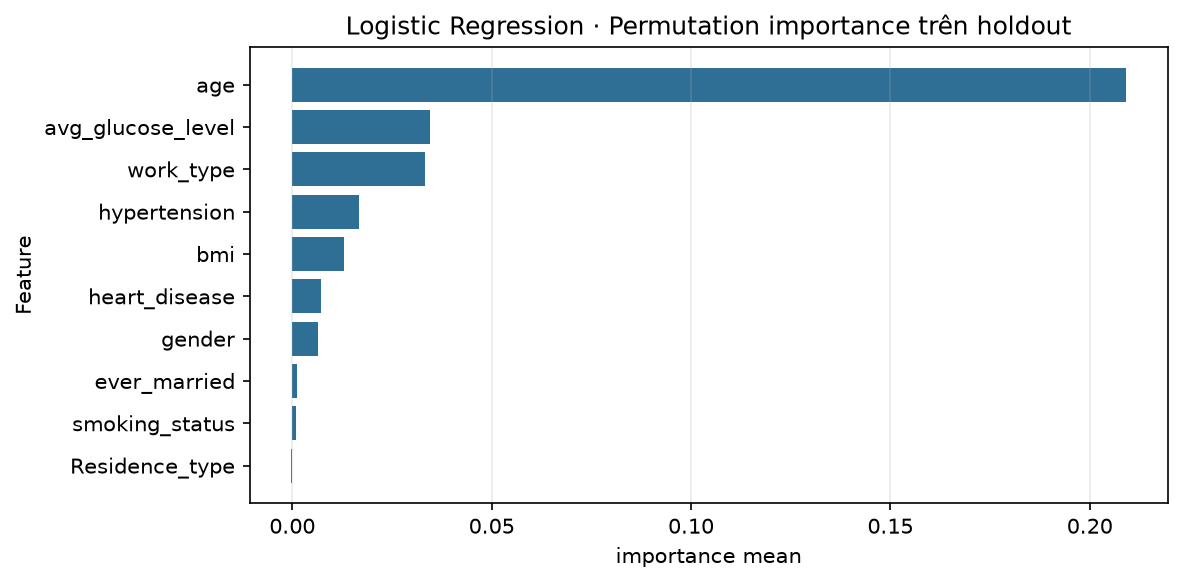
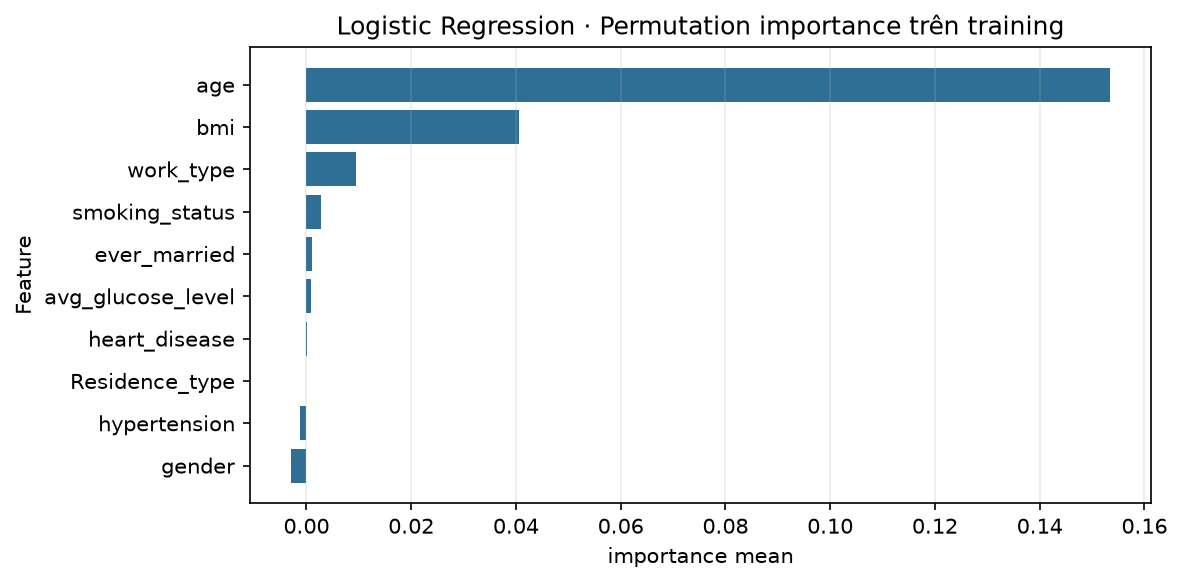
Rebuild final logistic regression artifacts

diff --git a/scripts/evaluate_final_model.py b/scripts/evaluate_final_model.py
@@ -35,6 +35,22 @@ MODEL_PATH = ROOT / "models" / "stroke_pipeline.pkl"
 
 def main() -> int:
     RESULTS_DIR.mkdir(exist_ok=True)
+    # Validate the training-only selection record before doing any work with holdout.
+    cv_results_path = RESULTS_DIR / "cv_results.csv"
+    if not cv_results_path.is_file():
+        raise FileNotFoundError(f"CV results are required before final evaluation: {cv_results_path}")
+    cv_results = pd.read_csv(cv_results_path)
+    required_cv_columns = {"model", "average_precision_mean"}
+    missing_cv_columns = required_cv_columns.difference(cv_results.columns)
+    if missing_cv_columns:
+        raise ValueError(f"CV results missing columns: {', '.join(sorted(missing_cv_columns))}")
+    lr_rows = cv_results.loc[
+        cv_results["model"].eq("Logistic Regression"), "average_precision_mean"
+    ]
+    if len(lr_rows) != 1 or not np.isfinite(float(lr_rows.iloc[0])):
+        raise ValueError("CV results must contain exactly one finite Logistic Regression AP score.")
+    lr_cv_ap = float(lr_rows.iloc[0])
+
     df = load_data()
     X_train, X_test, y_train, y_test = split_data(df)
     cv = StratifiedKFold(n_splits=5, shuffle=True, random_state=RANDOM_STATE)
@@ -122,8 +138,8 @@ def main() -> int:
 
     permutation = compute_permutation_importance(
         selected,
-        X_test,
-        y_test,
+        X_train,
+        y_train,
         scoring="average_precision",
         n_repeats=10,
         random_state=RANDOM_STATE,
@@ -132,16 +148,10 @@ def main() -> int:
     plot_feature_importance(
         permutation,
         value_column="importance_mean",
-        title="Logistic Regression · Permutation importance trên holdout",
+        title="Logistic Regression · Permutation importance trên training",
         save_as="permutation_importance.png",
     ).clear()
 
-    cv_results = pd.read_csv(RESULTS_DIR / "cv_results.csv")
-    lr_cv_ap = float(
-        cv_results.loc[
-            cv_results["model"].eq("Logistic Regression"), "average_precision_mean"
-        ].iloc[0]
-    )
     metadata = {
         "model": "Logistic Regression",
         "selection_metric": "average_precision_cv",
@@ -150,6 +160,7 @@ def main() -> int:
         "threshold": threshold,
         "random_state": RANDOM_STATE,
         "test_set_used_for_model_or_threshold_selection": False,
+        "test_set_used_for_feature_importance": False,
     }
     (RESULTS_DIR / "final_model_metadata.json").write_text(
         json.dumps(metadata, ensure_ascii=False, indent=2), encoding="utf-8"

diff --git a/src/evaluation.py b/src/evaluation.py
@@ -27,11 +27,12 @@ RESULTS_DIR = Path(__file__).resolve().parent.parent / "results"
 def compute_metrics(y_true, y_pred, y_proba) -> dict:
     """Tính 5 chỉ số chính. KHÔNG gồm accuracy (không đáng tin với dữ liệu mất cân bằng)."""
     return {
-        "recall": recall_score(y_true, y_pred),
+        "recall": recall_score(y_true, y_pred, zero_division=0),
         "precision": precision_score(y_true, y_pred, zero_division=0),
-        "f1": f1_score(y_true, y_pred),
+        "f1": f1_score(y_true, y_pred, zero_division=0),
         "roc_auc": roc_auc_score(y_true, y_proba),
-        "pr_auc": average_precision_score(y_true, y_proba),
+        # This is Average Precision (AP), not trapezoidal area under the PR curve.
+        "average_precision": average_precision_score(y_true, y_proba),
     }
 
 

diff --git a/src/tuning.py b/src/tuning.py
@@ -10,12 +10,13 @@ def get_tuning_models(random_state: int = 42) -> dict:
     return {
         "Random Forest": RandomForestClassifier(
             random_state=random_state,
-            n_jobs=-1
+            # RandomizedSearchCV parallelizes candidates; keep each estimator single-threaded.
+            n_jobs=1
         ),
         "XGBoost": XGBClassifier(
             eval_metric="logloss",
             random_state=random_state,
-            n_jobs=-1
+            n_jobs=1
         ),
     }
 

diff --git a/src/models.py b/src/models.py
@@ -29,7 +29,8 @@ def get_models(random_state: int = 42) -> dict:
 
         "Random Forest": RandomForestClassifier(
             random_state=random_state,
-            n_jobs=-1
+            # CV is parallelized at the outer level; avoid nested worker pools.
+            n_jobs=1
         ),
 
         "XGBoost": XGBClassifier(

diff --git a/docs/chuong_trien_khai.md b/docs/chuong_trien_khai.md
@@ -1,6 +1,6 @@
 # Chương: Triển khai ứng dụng và đánh giá
 
-> Bản nháp kỹ thuật theo cấu trúc báo cáo mẫu. Chỉ thay các mục ghi “cập nhật sau khi chốt” khi đã có mô hình, ngưỡng và kết quả test cuối được nhóm xác nhận.
+Nội dung dưới đây mô tả phiên bản hiện hành trong repository. Trước khi nộp, nhóm cần đối chiếu tên thành viên, thông tin học phần và yêu cầu trình bày của giảng viên.
 
 ## 1. Mục tiêu triển khai
 
@@ -12,7 +12,7 @@
 
 Các giá trị nhập được gom thành một dòng `DataFrame` với tên cột trùng dữ liệu huấn luyện. Nếu người dùng chọn không biết BMI, ứng dụng gửi `NaN`; pipeline xử lý thiếu trong bước imputation. Ứng dụng tải toàn bộ pipeline từ `models/stroke_pipeline.pkl`, nhờ đó bước biến đổi dữ liệu khi dự đoán được áp dụng nhất quán với lúc huấn luyện.
 
-Pipeline dự kiến gồm `ColumnTransformer`, bước SMOTE trong giai đoạn fit và mô hình phân lớp. Preprocessing dùng median cho đặc trưng số, thêm cờ thiếu, chuẩn hóa biến số, one-hot encoding biến phân loại và bỏ qua nhãn phân loại chưa gặp. SMOTE chỉ được fit trong các fold huấn luyện; không áp dụng vào holdout.
+Pipeline gồm `ColumnTransformer`, bước SMOTE trong giai đoạn fit và Logistic Regression. Preprocessing dùng median cho đặc trưng số, thêm cờ thiếu cho BMI, chuẩn hóa biến số, one-hot encoding biến phân loại và bỏ qua nhãn phân loại chưa gặp. SMOTE chỉ được fit trong các fold huấn luyện; không áp dụng vào holdout.
 
 ## 3. Các bước dự đoán
 

diff --git a/docs/so_sanh_mo_hinh.md b/docs/so_sanh_mo_hinh.md
@@ -14,7 +14,7 @@ Các số cũ trong nhánh modeling là Logistic Regression AP 0.192 và XGBoost
 
 Ở lần chạy cũ, Logistic Regression cao hơn 0.0314 điểm AP (xấp xỉ 19,6% so với 0.1606). Nếu hai con số cũ được lấy từ cùng quy trình CV, đây là lợi thế quan sát được của Logistic Regression theo AP; tuy vậy, điểm `best_score_` của tìm kiếm siêu tham số có thể lạc quan hơn vì nó là điểm cao nhất trong quá trình chọn cấu hình. Tỷ lệ lớp dương toàn bộ dữ liệu là 4,87%, làm mốc tham khảo cho AP của bộ dữ liệu mất cân bằng.
 
-Kết quả holdout XGBoost được tạo bằng preprocessing cũ hiện lưu ở `results/legacy_test_results_before_preprocessing_fix.csv` để tham khảo lịch sử; chưa có bảng test hợp lệ cho phiên bản preprocessing hiện tại. `results/test_results.csv` đang để trống đến khi nhóm chốt mô hình và đánh giá holdout.
+Kết quả holdout lịch sử của XGBoost, được tạo bằng preprocessing cũ, được lưu riêng ở `results/legacy_test_results_before_preprocessing_fix.csv` và không dùng trong kết luận. Kết quả holdout của pipeline hiện tại nằm ở `results/test_results.csv`.
 
 ## Logistic Regression
 
